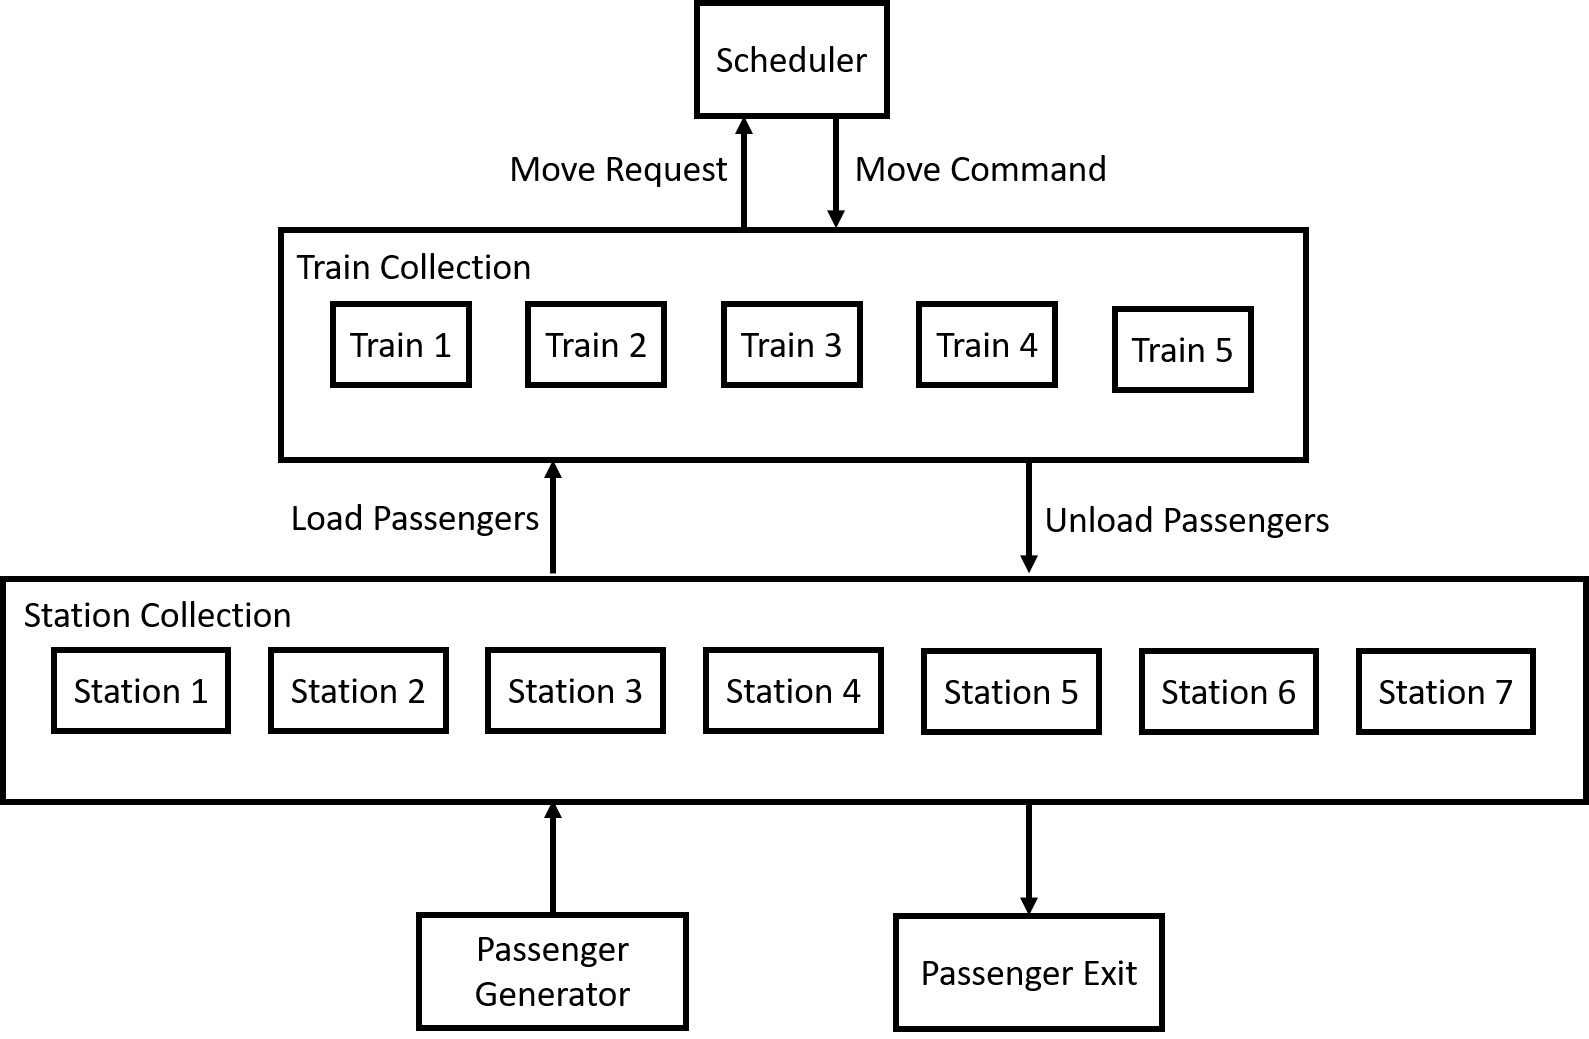
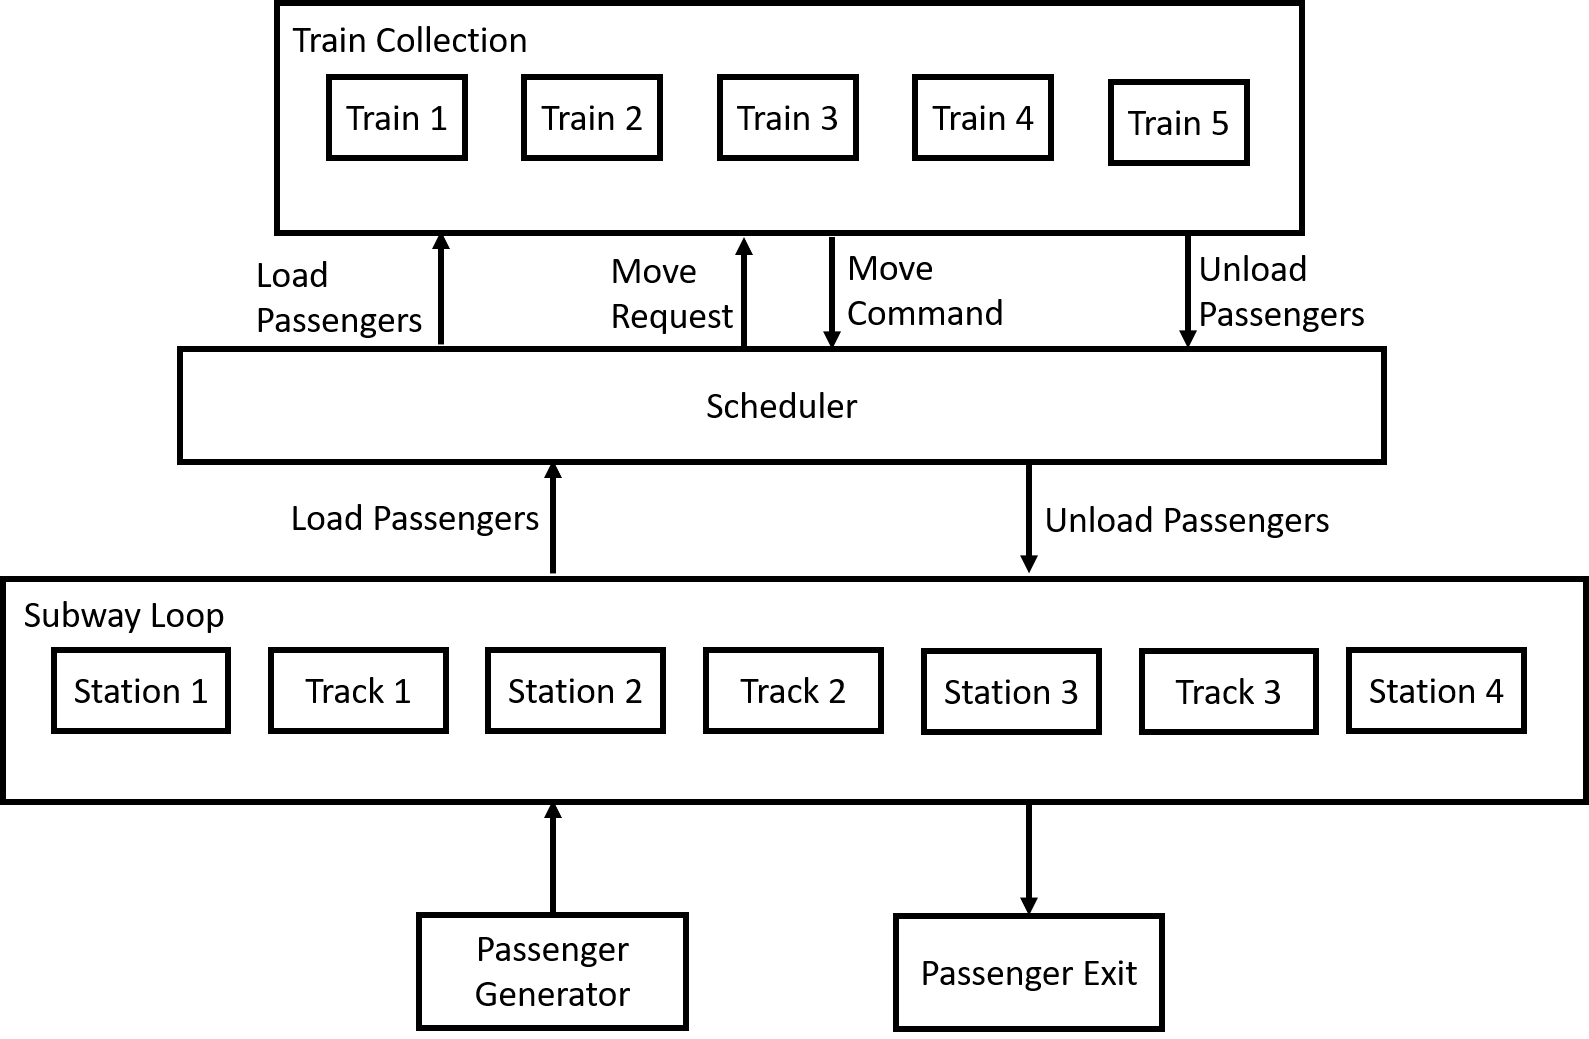
Updated hierarchy image.  Added sections for subway loop and train group models.

diff --git a/Report/approach.tex b/Report/approach.tex
@@ -1,7 +1,7 @@
 \section{Approach}
 Plenty of literature exists on modeling both surface rail networks, which typically cover longer distances, and subway or light-rail systems, which typically operate with a higher train frequency. Where simulations of surface rail networks might focus on maintaining arrival and departure schedules, subway and metro systems are more interested in keeping the trains moving and avoiding deadlock.  Deadlock is a state where no train can advance.  For example, consider a scenario where a train is broken down for an extended period of time.  As time advances, trains continue to arrive behind the disabled train, but are unable to pass.  Eventually all trains are stuck behind the disabled train.  Careful placement and management of track switches can be used to allow trains to overtake and pass a disabled train. These management schemes require modeling and simulation to evaluate their effectiveness.  According to Ref.~\citen{ttcservice}, Toronto subway trains run every two to seven minutes. Even small delays of just a couple minutes can result in relatively significant delays.
 
-The approach considered here consists of five atomic components coupled together: stations, track sections, trains, passengers and a scheduler. A hierarchy and some simple relationships between the components are shown in Fig.~\ref{fig:hierarchy}.  Stations and track sections are modeled similarly, with the exception that passengers can be unloaded and loaded at stations. Two tracks, one for each direction, join stations together. Each train carries up to a specified maximum number of passengers. The time to load and unload passengers is linearly dependent on the number of passengers involved in the operations. Passengers originate and terminate at stations.  Trains may also suffer from failures, which cause delays in service.  The role of the scheduler is to control the movement of the trains and ensure no collisions or deadlocks occur.  The models for these components are described in more detail in the following sections.
+The approach considered here consists of five atomic components coupled together: stations, track sections, trains, passengers and a scheduler. A hierarchy and some simple relationships between the components are shown in Fig.~\ref{fig:hierarchy}.  Stations and track sections are modeled similarly, with the exception that passengers can be unloaded and loaded at stations. A subway line is modeled as a continuous loop. For example, a subway line with two endpoints is modeled as one continuous loop by having instances of stations for each direction--east and west, for example. In this setup, each stop has two station instances: a west station and an east station.  At one endpoint where the east station is reached, the west station is the very next station in the loop and vice versa for the other end point.  Each train carries up to a specified maximum number of passengers. The time to load and unload passengers is specified as some minimum value, plus an optional random component. Passengers originate and terminate at stations.  Trains may also suffer from failures, which cause delays in service.  The primary role of the scheduler is to control the movement of the trains and ensure no collisions or deadlocks occur.  The models for these components are described in more detail in the following sections.
 %
 \begin{figure}[htb]
 	\centering
@@ -85,6 +85,9 @@ DEVS_{\textrm{Track}} &= \left<X,Y,S,\delta_{ext},\delta_{int},\lambda,ta\right>
             \text{May not enter} & \text{otherwise} \\
         \end{cases}
 \end{align*}
+%
+\subsection{Subway Loop Model}
+To simplify couplings between the large numbers of stations and tracks with the scheduler, the subway loop model is a digraph that contains the stations and tracks for a given subway line.  The subway loop model has the same input and output ports as the stations and tracks.  As the input and output ports for the subway loop model are coupled to every instance of a station or track section contained within, the station and track section models must filter the messages based on the unique identifier that is passed along with each message. Thus, all station instances receive all station messages and all track sections receive all track messages, but filtering the processing of the messages based on the unique identifier means only the targeted instance will process a given message. The subway loop model stores the stations and tracks in a circular array.  It is assumed that stations are located at even indices in the array and track sections at odd indices. This allows the scheduler to quickly identify whether a train is at a station or on a track section using just an integer array index value.
 
 \subsection{Train Model}
 
@@ -178,7 +181,9 @@ DEVS_{\textrm{Train}} &= \left<X,Y,S,\delta_{ext},\delta_{int},\lambda,ta\right>
     \lambda(\text{unloading}, i, p, \sigma) &= \OutUnloadPassengers{\floor*{p/2}} \\
     \lambda(\text{waiting for cap req}, i, p, \sigma) &= \OutRemainingCapacity{C - p}
 \end{align*}
-
+%
+\subsection{Train Group Model}
+Similar to the subway loop model, the train group model is used to simplify port coupling between the scheduler and all of the trains.  Messages sent from the scheduler to the train group are filtered by the train instances using a unique train identifier.  The order of the trains as stored in the train group model is unimportant.  The train group model contains the same input and output ports as the train model.
 
 \subsection{Scheduler Model}
 A formal definition of the scheduler model as implemented in the DEVS suite is provided below.  A scheduler is essentially a coordinator model, but since in this case its primary purpose is to maintain the subway train schedule, we identify it as the scheduler. It routes all message traffic between a group of trains and the subway loop, where the subway loop is composed of alternating station and track instances.  Without the scheduler to route messages from trains to the appropriate stations and vice versa, every train would need to be coupled to every track and every station.  Any time an output is sent from a train, it would be received by every track and every station instance as we are unable to rebind the train ports each time it moves to a new track or station. Instead, each time a train generates an output, it sends it only to the scheduler.  The scheduler will then identify to which station or track the message is targeted and repackage and send the message accordingly. Conversely, when a station needs to send a message to a train, the scheduler also manages the reverse association.  
